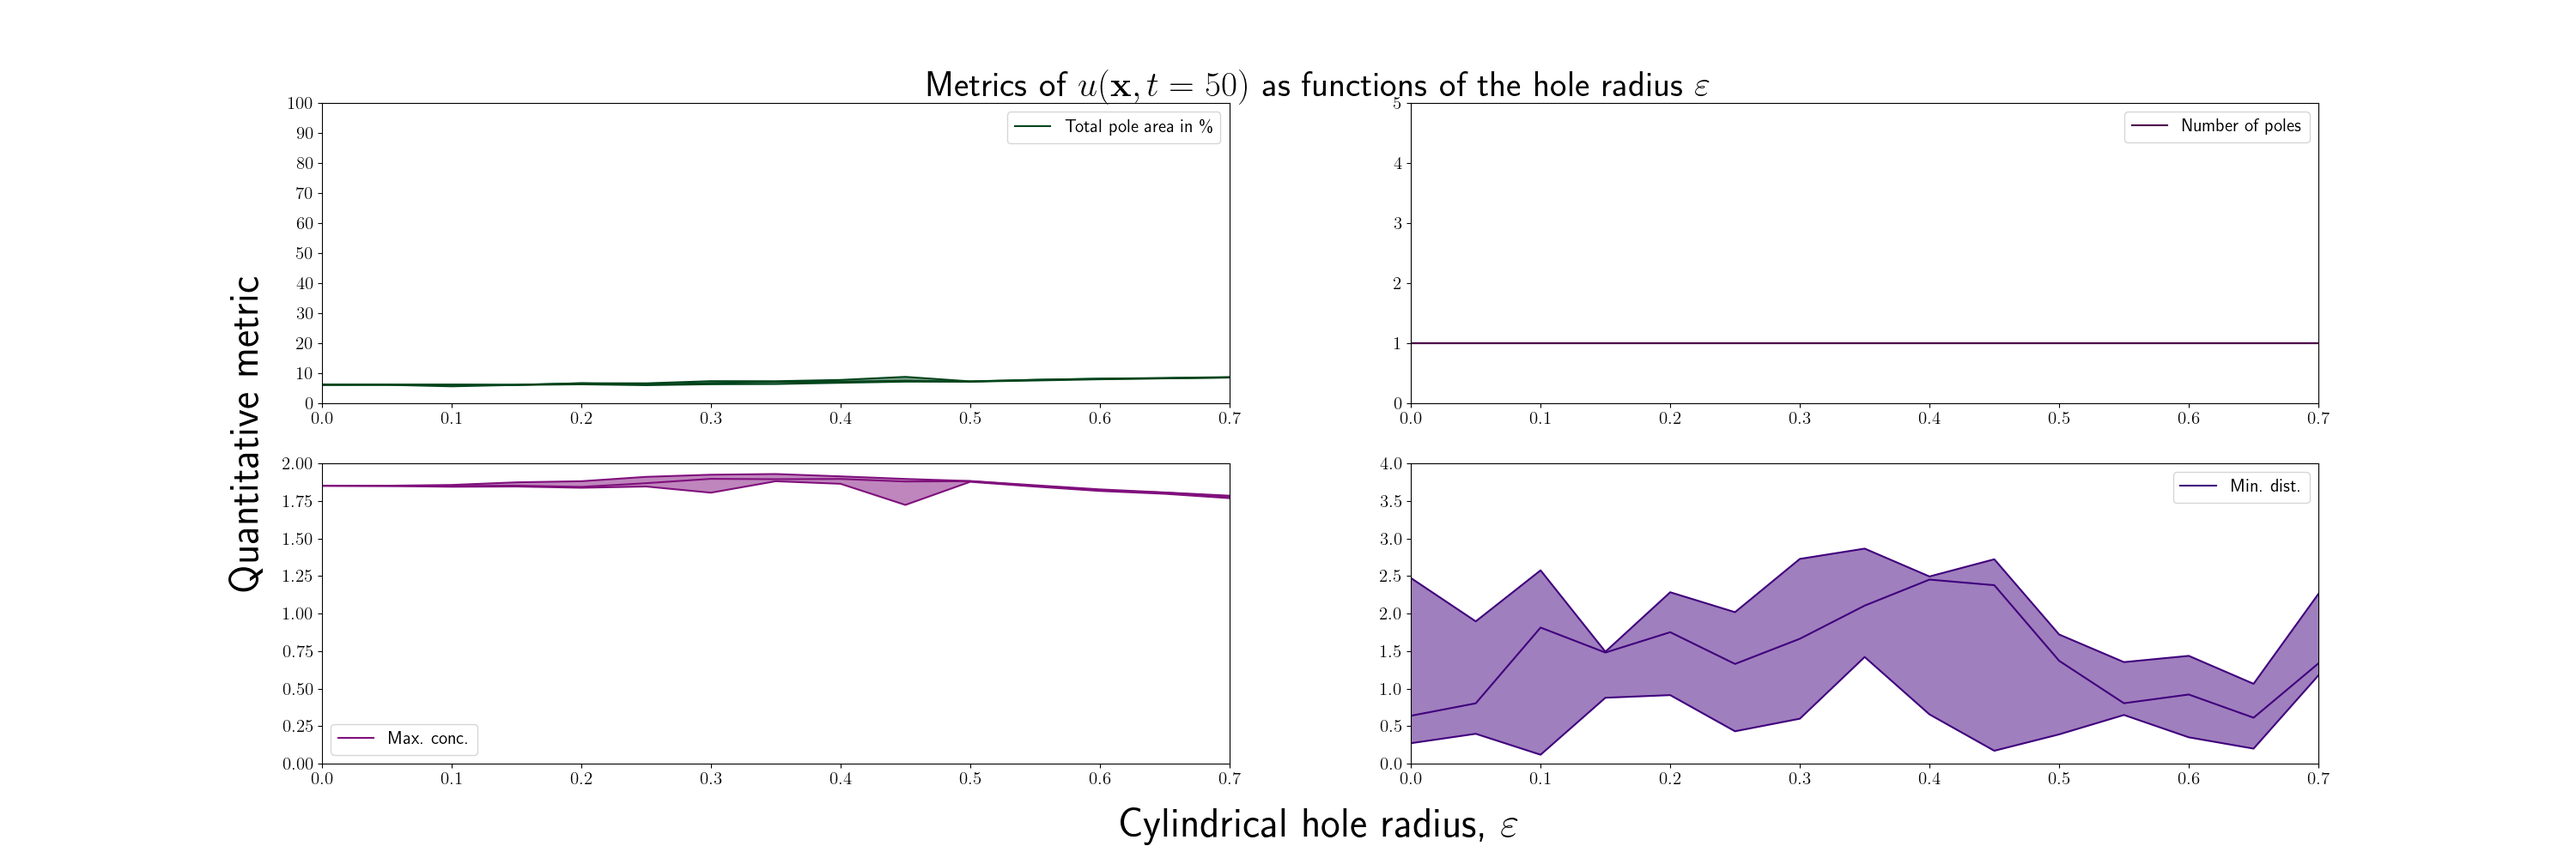
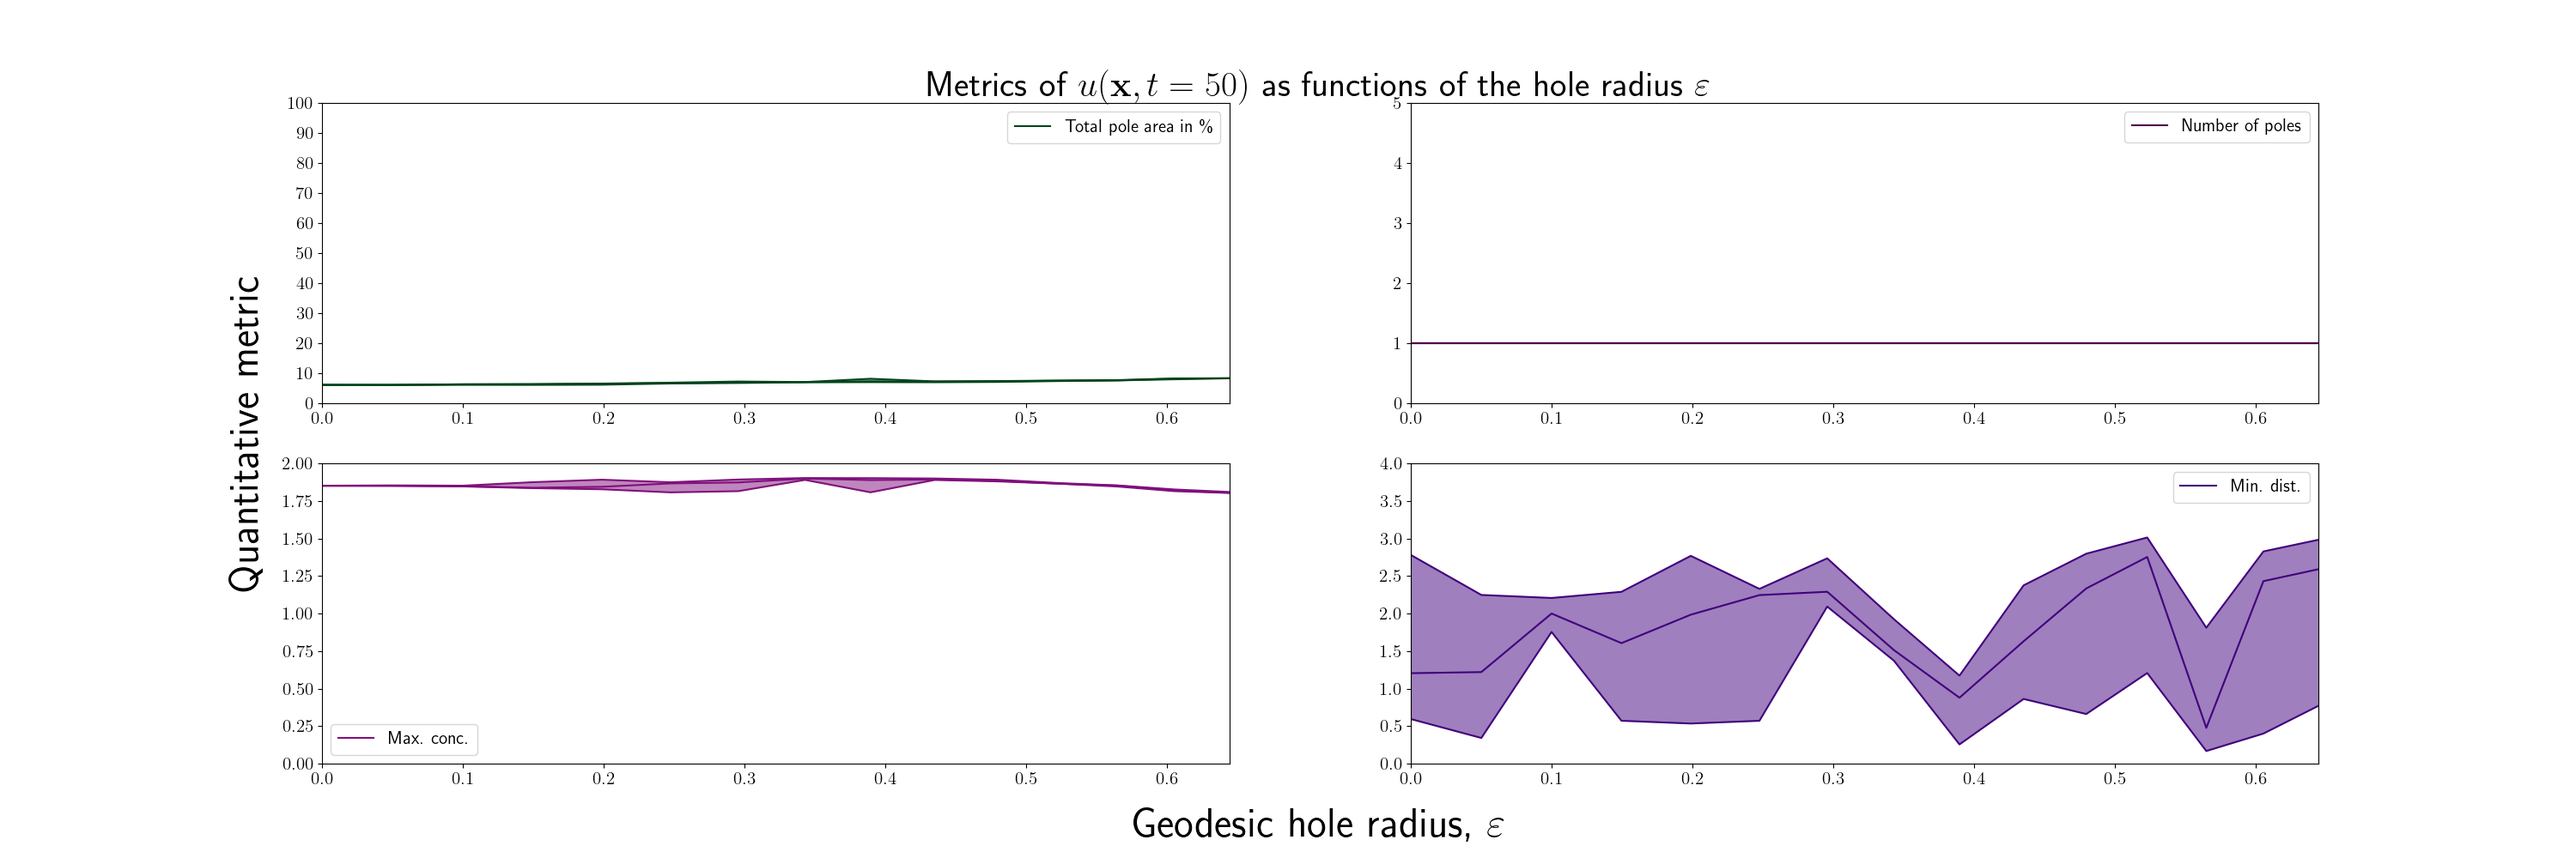
Update figure legends and labels with the correct notation for the spektral coefficients and eigen values. Change so that we actually show the geodesic radius.

diff --git a/Code/data_analysis_of_spatial_patterns.py b/Code/data_analysis_of_spatial_patterns.py
@@ -294,47 +294,47 @@ plt.rc('ytick', labelsize=30)    # fontsize of the tick labels
 # add a big axis, hide frame
 fig.add_subplot(111, frameon=False)
 # Subplot 1 of 4
-axes[0][0].plot(hole_radius_array,np.asarray([np.percentile(rel_pol_area[index],50) for index in range(len(rel_pol_area))]),'-',color=(0/256,68/256,27/256),label="Total pole area in \\%")
-axes[0][0].plot(hole_radius_array,np.asarray([np.percentile(rel_pol_area[index],95) for index in range(len(rel_pol_area))]),'-',color=(0/256,68/256,27/256))
-axes[0][0].plot(hole_radius_array,np.asarray([np.percentile(rel_pol_area[index],5) for index in range(len(rel_pol_area))]),'-',color=(0/256,68/256,27/256))
-axes[0][0].fill_between(hole_radius_array,np.asarray([np.percentile(rel_pol_area[index],5) for index in range(len(rel_pol_area))]),np.asarray([np.percentile(rel_pol_area[index],95) for index in range(len(rel_pol_area))]), facecolor=(0/256,68/256,27/256),alpha=0.5,interpolate=True)
+axes[0][0].plot(np.sin(hole_radius_array),np.asarray([np.percentile(rel_pol_area[index],50) for index in range(len(rel_pol_area))]),'-',color=(0/256,68/256,27/256),label="Total pole area in \\%")
+axes[0][0].plot(np.sin(hole_radius_array),np.asarray([np.percentile(rel_pol_area[index],95) for index in range(len(rel_pol_area))]),'-',color=(0/256,68/256,27/256))
+axes[0][0].plot(np.sin(hole_radius_array),np.asarray([np.percentile(rel_pol_area[index],5) for index in range(len(rel_pol_area))]),'-',color=(0/256,68/256,27/256))
+axes[0][0].fill_between(np.sin(hole_radius_array),np.asarray([np.percentile(rel_pol_area[index],5) for index in range(len(rel_pol_area))]),np.asarray([np.percentile(rel_pol_area[index],95) for index in range(len(rel_pol_area))]), facecolor=(0/256,68/256,27/256),alpha=0.5,interpolate=True)
 axes[0][0].legend(loc='best')
 axes[0][0].set_ylim([0,100])
 axes[0][0].yaxis.set_ticks(np.arange(0,110,10))
-axes[0][0].set_xlim([0,hole_radius_array[-1]])
+axes[0][0].set_xlim([0,np.sin(hole_radius_array)[-1]])
 # We change the fontsize of minor ticks label 
 axes[0][0].tick_params(axis='both', which='major', labelsize=15)
 axes[0][0].tick_params(axis='both', which='minor', labelsize=15)
 
 # Subplot 2 of 4
-axes[0][1].plot(hole_radius_array,np.asarray([np.percentile(num_poles_vec[index],50) for index in range(len(num_poles_vec))]),'-',color=(77/256,0/256,75/256),label="Number of poles")
-axes[0][1].plot(hole_radius_array,np.asarray([np.percentile(num_poles_vec[index],95) for index in range(len(num_poles_vec))]),'-',color=(77/256,0/256,75/256))
-axes[0][1].plot(hole_radius_array,np.asarray([np.percentile(num_poles_vec[index],5) for index in range(len(num_poles_vec))]),'-',color=(77/256,0/256,75/256))
-axes[0][1].fill_between(hole_radius_array,np.asarray([np.percentile(num_poles_vec[index],5) for index in range(len(num_poles_vec))]),np.array([np.percentile(num_poles_vec[index],95) for index in range(len(num_poles_vec))]), facecolor=(77/256,0/256,75/256),alpha=0.5,interpolate=True)
+axes[0][1].plot(np.sin(hole_radius_array),np.asarray([np.percentile(num_poles_vec[index],50) for index in range(len(num_poles_vec))]),'-',color=(77/256,0/256,75/256),label="Number of poles")
+axes[0][1].plot(np.sin(hole_radius_array),np.asarray([np.percentile(num_poles_vec[index],95) for index in range(len(num_poles_vec))]),'-',color=(77/256,0/256,75/256))
+axes[0][1].plot(np.sin(hole_radius_array),np.asarray([np.percentile(num_poles_vec[index],5) for index in range(len(num_poles_vec))]),'-',color=(77/256,0/256,75/256))
+axes[0][1].fill_between(np.sin(hole_radius_array),np.asarray([np.percentile(num_poles_vec[index],5) for index in range(len(num_poles_vec))]),np.array([np.percentile(num_poles_vec[index],95) for index in range(len(num_poles_vec))]), facecolor=(77/256,0/256,75/256),alpha=0.5,interpolate=True)
 axes[0][1].legend(loc='best')
 axes[0][1].set_ylim([0,5])
-axes[0][1].set_xlim([0,hole_radius_array[-1]])
+axes[0][1].set_xlim([0,np.sin(hole_radius_array)[-1]])
 axes[0][1].tick_params(axis='both', which='major', labelsize=15)
 axes[0][1].tick_params(axis='both', which='minor', labelsize=15)
 # Subplot 3 of 4
-axes[1][0].plot(hole_radius_array,np.asarray([np.percentile(max_conc[index],50) for index in range(len(max_conc))]),'-',color=(129/256,15/256,124/256),label="Max. conc.")
-axes[1][0].plot(hole_radius_array,np.asarray([np.percentile(max_conc[index],95) for index in range(len(max_conc))]),'-',color=(129/256,15/256,124/256))
-axes[1][0].plot(hole_radius_array,np.asarray([np.percentile(max_conc[index],5) for index in range(len(max_conc))]),'-',color=(129/256,15/256,124/256))
-axes[1][0].fill_between(hole_radius_array,np.asarray([np.percentile(max_conc[index],5) for index in range(len(max_conc))]),np.array([np.percentile(max_conc[index],95) for index in range(len(max_conc))]), facecolor=(129/256,15/256,124/256),alpha=0.5,interpolate=True)
+axes[1][0].plot(np.sin(hole_radius_array),np.asarray([np.percentile(max_conc[index],50) for index in range(len(max_conc))]),'-',color=(129/256,15/256,124/256),label="Max. conc.")
+axes[1][0].plot(np.sin(hole_radius_array),np.asarray([np.percentile(max_conc[index],95) for index in range(len(max_conc))]),'-',color=(129/256,15/256,124/256))
+axes[1][0].plot(np.sin(hole_radius_array),np.asarray([np.percentile(max_conc[index],5) for index in range(len(max_conc))]),'-',color=(129/256,15/256,124/256))
+axes[1][0].fill_between(np.sin(hole_radius_array),np.asarray([np.percentile(max_conc[index],5) for index in range(len(max_conc))]),np.array([np.percentile(max_conc[index],95) for index in range(len(max_conc))]), facecolor=(129/256,15/256,124/256),alpha=0.5,interpolate=True)
 axes[1][0].legend(loc='best')
 axes[1][0].set_ylim([0,2])
-axes[1][0].set_xlim([0,hole_radius_array[-1]])
+axes[1][0].set_xlim([0,np.sin(hole_radius_array)[-1]])
 axes[1][0].tick_params(axis='both', which='major', labelsize=15)
 axes[1][0].tick_params(axis='both', which='minor', labelsize=15)
 # Subplot 4 of 4
-axes[1][1].plot(hole_radius_array,np.asarray([np.percentile(min_dist[index],50) for index in range(len(min_dist))]),'-',color=(64/256,0/256,125/256),label="Min. dist.")
-axes[1][1].plot(hole_radius_array,np.asarray([np.percentile(min_dist[index],95) for index in range(len(min_dist))]),'-',color=(64/256,0/256,125/256))
-axes[1][1].plot(hole_radius_array,np.asarray([np.percentile(min_dist[index],5) for index in range(len(min_dist))]),'-',color=(64/256,0/256,125/256))
-axes[1][1].fill_between(hole_radius_array,np.asarray([np.percentile(min_dist[index],5) for index in range(len(min_dist))]),np.array([np.percentile(min_dist[index],95) for index in range(len(min_dist))]), facecolor=(64/256,0/256,125/256),alpha=0.5,interpolate=True)
+axes[1][1].plot(np.sin(hole_radius_array),np.asarray([np.percentile(min_dist[index],50) for index in range(len(min_dist))]),'-',color=(64/256,0/256,125/256),label="Min. dist.")
+axes[1][1].plot(np.sin(hole_radius_array),np.asarray([np.percentile(min_dist[index],95) for index in range(len(min_dist))]),'-',color=(64/256,0/256,125/256))
+axes[1][1].plot(np.sin(hole_radius_array),np.asarray([np.percentile(min_dist[index],5) for index in range(len(min_dist))]),'-',color=(64/256,0/256,125/256))
+axes[1][1].fill_between(np.sin(hole_radius_array),np.asarray([np.percentile(min_dist[index],5) for index in range(len(min_dist))]),np.array([np.percentile(min_dist[index],95) for index in range(len(min_dist))]), facecolor=(64/256,0/256,125/256),alpha=0.5,interpolate=True)
 axes[1][1].legend(loc='best')
 axes[1][1].set_ylim([0,4])
 axes[1][1].yaxis.set_ticks(np.arange(0,4.5,0.5))
-axes[1][1].set_xlim([0,hole_radius_array[-1]])
+axes[1][1].set_xlim([0,np.sin(hole_radius_array)[-1]])
 axes[1][1].tick_params(axis='both', which='major', labelsize=15)
 axes[1][1].tick_params(axis='both', which='minor', labelsize=15)
 # displaying the title

diff --git a/Code/plot_perturbed_eigenfunctions.py b/Code/plot_perturbed_eigenfunctions.py
@@ -108,7 +108,7 @@ for hole_index in range(len(hole_radius_array)):
             del legend_strings[0]
             # Rename the legends
             for index,legend in enumerate(legend_strings):
-                legend_strings[index] = legend_strings[index].replace("\\gamma","U")
+                legend_strings[index] = legend_strings[index].replace("\\gamma","U").replace(",","}^{")
             # Increment the legend string so that we do not save it anymore
             help_variable += 1
         # Loop through our data frame and save each value (we need to cast it as a double first)
@@ -160,19 +160,19 @@ for index in range(21):
         row=1
         col=2                
     # Plot the 90 percentile
-    axes[row][col].plot(hole_radius_array,np.array([np.percentile(basis_functions[index][sub_index],95) for sub_index in range(len(hole_radius_array))]),'--',color=colour_list_for_plotting[index])
+    axes[row][col].plot(np.sin(hole_radius_array),np.array([np.percentile(basis_functions[index][sub_index],95) for sub_index in range(len(hole_radius_array))]),'--',color=colour_list_for_plotting[index])
     # Plot the 50 percentile
-    axes[row][col].plot(hole_radius_array,np.array([np.percentile(basis_functions[index][sub_index],50) for sub_index in range(len(hole_radius_array))]),'-',color=colour_list_for_plotting[index],label=legend_strings[index])
+    axes[row][col].plot(np.sin(hole_radius_array),np.array([np.percentile(basis_functions[index][sub_index],50) for sub_index in range(len(hole_radius_array))]),'-',color=colour_list_for_plotting[index],label=legend_strings[index])
     # Plot the 5 percentile
-    axes[row][col].plot(hole_radius_array,np.array([np.percentile(basis_functions[index][sub_index],5) for sub_index in range(len(hole_radius_array))]),'--',color=colour_list_for_plotting[index])
+    axes[row][col].plot(np.sin(hole_radius_array),np.array([np.percentile(basis_functions[index][sub_index],5) for sub_index in range(len(hole_radius_array))]),'--',color=colour_list_for_plotting[index])
     # See if we can fill between
-    axes[row][col].fill_between(hole_radius_array,np.array([np.percentile(basis_functions[index][sub_index],5) for sub_index in range(len(hole_radius_array))]), np.array([np.percentile(basis_functions[index][sub_index],95) for sub_index in range(len(hole_radius_array))]), facecolor=colour_list_for_plotting[index],alpha=0.5,interpolate=True)
+    axes[row][col].fill_between(np.sin(hole_radius_array),np.array([np.percentile(basis_functions[index][sub_index],5) for sub_index in range(len(hole_radius_array))]), np.array([np.percentile(basis_functions[index][sub_index],95) for sub_index in range(len(hole_radius_array))]), facecolor=colour_list_for_plotting[index],alpha=0.5,interpolate=True)
     # Add the legend in the end
     axes[row][col].legend(bbox_to_anchor=(0.50,0.5), loc="center left", borderaxespad=0)
 # hide tick and tick label of the big axis
 plt.tick_params(labelcolor='none', which='both', top=False, bottom=False, left=False, right=False)
 plt.xlabel("Geodesic hole radius, $\\varepsilon$")
-plt.ylabel('Coefficients $U_{n,m}$ in \\\\$u(\\mathbf{x},t=50)=\\sum_{n=0}^{5}\\sum_{m=0}^{n}U_{n,m}Y_{n}^{m}(\\mathbf{x}),\\quad\\mathbf{x}\\in S^2$')
+plt.ylabel('Spectral coefficients $U_{n}^{m}$')
 # displaying the title
 plt.title("Spectral decomposition of $u(\\mathbf{x},t=50)$ as a function of the hole radius $\\varepsilon$",fontsize=30, fontweight='bold')
 # Save fig and show it

diff --git a/Code/find_parameters_and_plot_perturbed_eigenvalues.py b/Code/find_parameters_and_plot_perturbed_eigenvalues.py
@@ -107,16 +107,16 @@ plt.rc('ytick', labelsize=20)    # fontsize of the tick labels
 fig.add_subplot(111, frameon=False)
 # Plot the eigenvalues
 for index in index_list:
-    axes.plot(epsilon_vector,lambda_vec[index],'-',color=colour_list_for_plotting[index],label=label_strings[index])
+    axes.plot(np.sin(epsilon_vector),lambda_vec[index],'-',color=colour_list_for_plotting[index],label=label_strings[index])
 # Plot the upper bound
-axes.plot(epsilon_vector,upper_bound,'--k',label="$\\gamma\\;M$")
-axes.plot(epsilon_vector,lower_bound,'*k',label="$\\gamma\\;L$")
+axes.plot(np.sin(epsilon_vector),upper_bound,'--k',label="$\\gamma\\;M$")
+axes.plot(np.sin(epsilon_vector),lower_bound,'*k',label="$\\gamma\\;L$")
 axes.legend()
 #hide tick and tick label of the big axis
 plt.tick_params(labelcolor='none', which='both', top=False, bottom=False, left=False, right=False)
 plt.xlabel("Geodesic hole radius, $\\varepsilon$")
-plt.ylabel("Eigenvalues, $\\lambda_{n,m}(\\varepsilon)$")
+plt.ylabel("Eigenvalues, $\\lambda_{n}^{m}(\\varepsilon)$")
 # displaying the title
-plt.title("Perturbed eigenvalues $\\lambda_{n,m}(\\varepsilon)$ as a function of the hole radius $\\varepsilon$",fontsize=30, fontweight='bold')
+plt.title("Perturbed eigenvalues $\\lambda_{n}^{m}(\\varepsilon)$ as a function of the hole radius $\\varepsilon$",fontsize=30, fontweight='bold')
 plt.savefig("../Figures/perturbed_eigenvalues_n_" + str(n) + ".png")
 #plt.show() # Uncomment if you want a figure to pop-up

diff --git a/Code/final_concentration_decomposition.py b/Code/final_concentration_decomposition.py
@@ -124,8 +124,8 @@ fig_1 = plt.figure(constrained_layout=True, figsize=(20, 8))
 plt.plot(basis_function_index, basis_functions, '*' ,color=(0/256,0/256,0/256),linewidth=3.0)
 plt.grid()
 plt.legend(loc='best',prop={"size":20})
-plt.xlabel(xlabel='$(n,m)$-indices for $U_{n,m}$',fontsize=25)
-plt.ylabel(ylabel='Coefficients $U_{n,m}$ in \\\\$u(\\mathbf{x},t=50)=\\sum_{n=0}^{5}\\sum_{m=0}^{n}U_{n,m}Y_{n}^{m}(\\mathbf{x}),\\quad\\mathbf{x}\\in S^2$',fontsize=25)
+plt.xlabel(xlabel='$(n,m)$-indices for $U_{n}^{m}$',fontsize=25)
+plt.ylabel(ylabel='Spectrail coefficients $U_{n}^{m}$',fontsize=25)
 # Change the size of the ticks
 plt.tick_params(axis='both', which='major', labelsize=20)
 plt.tick_params(axis='both', which='minor', labelsize=20)
